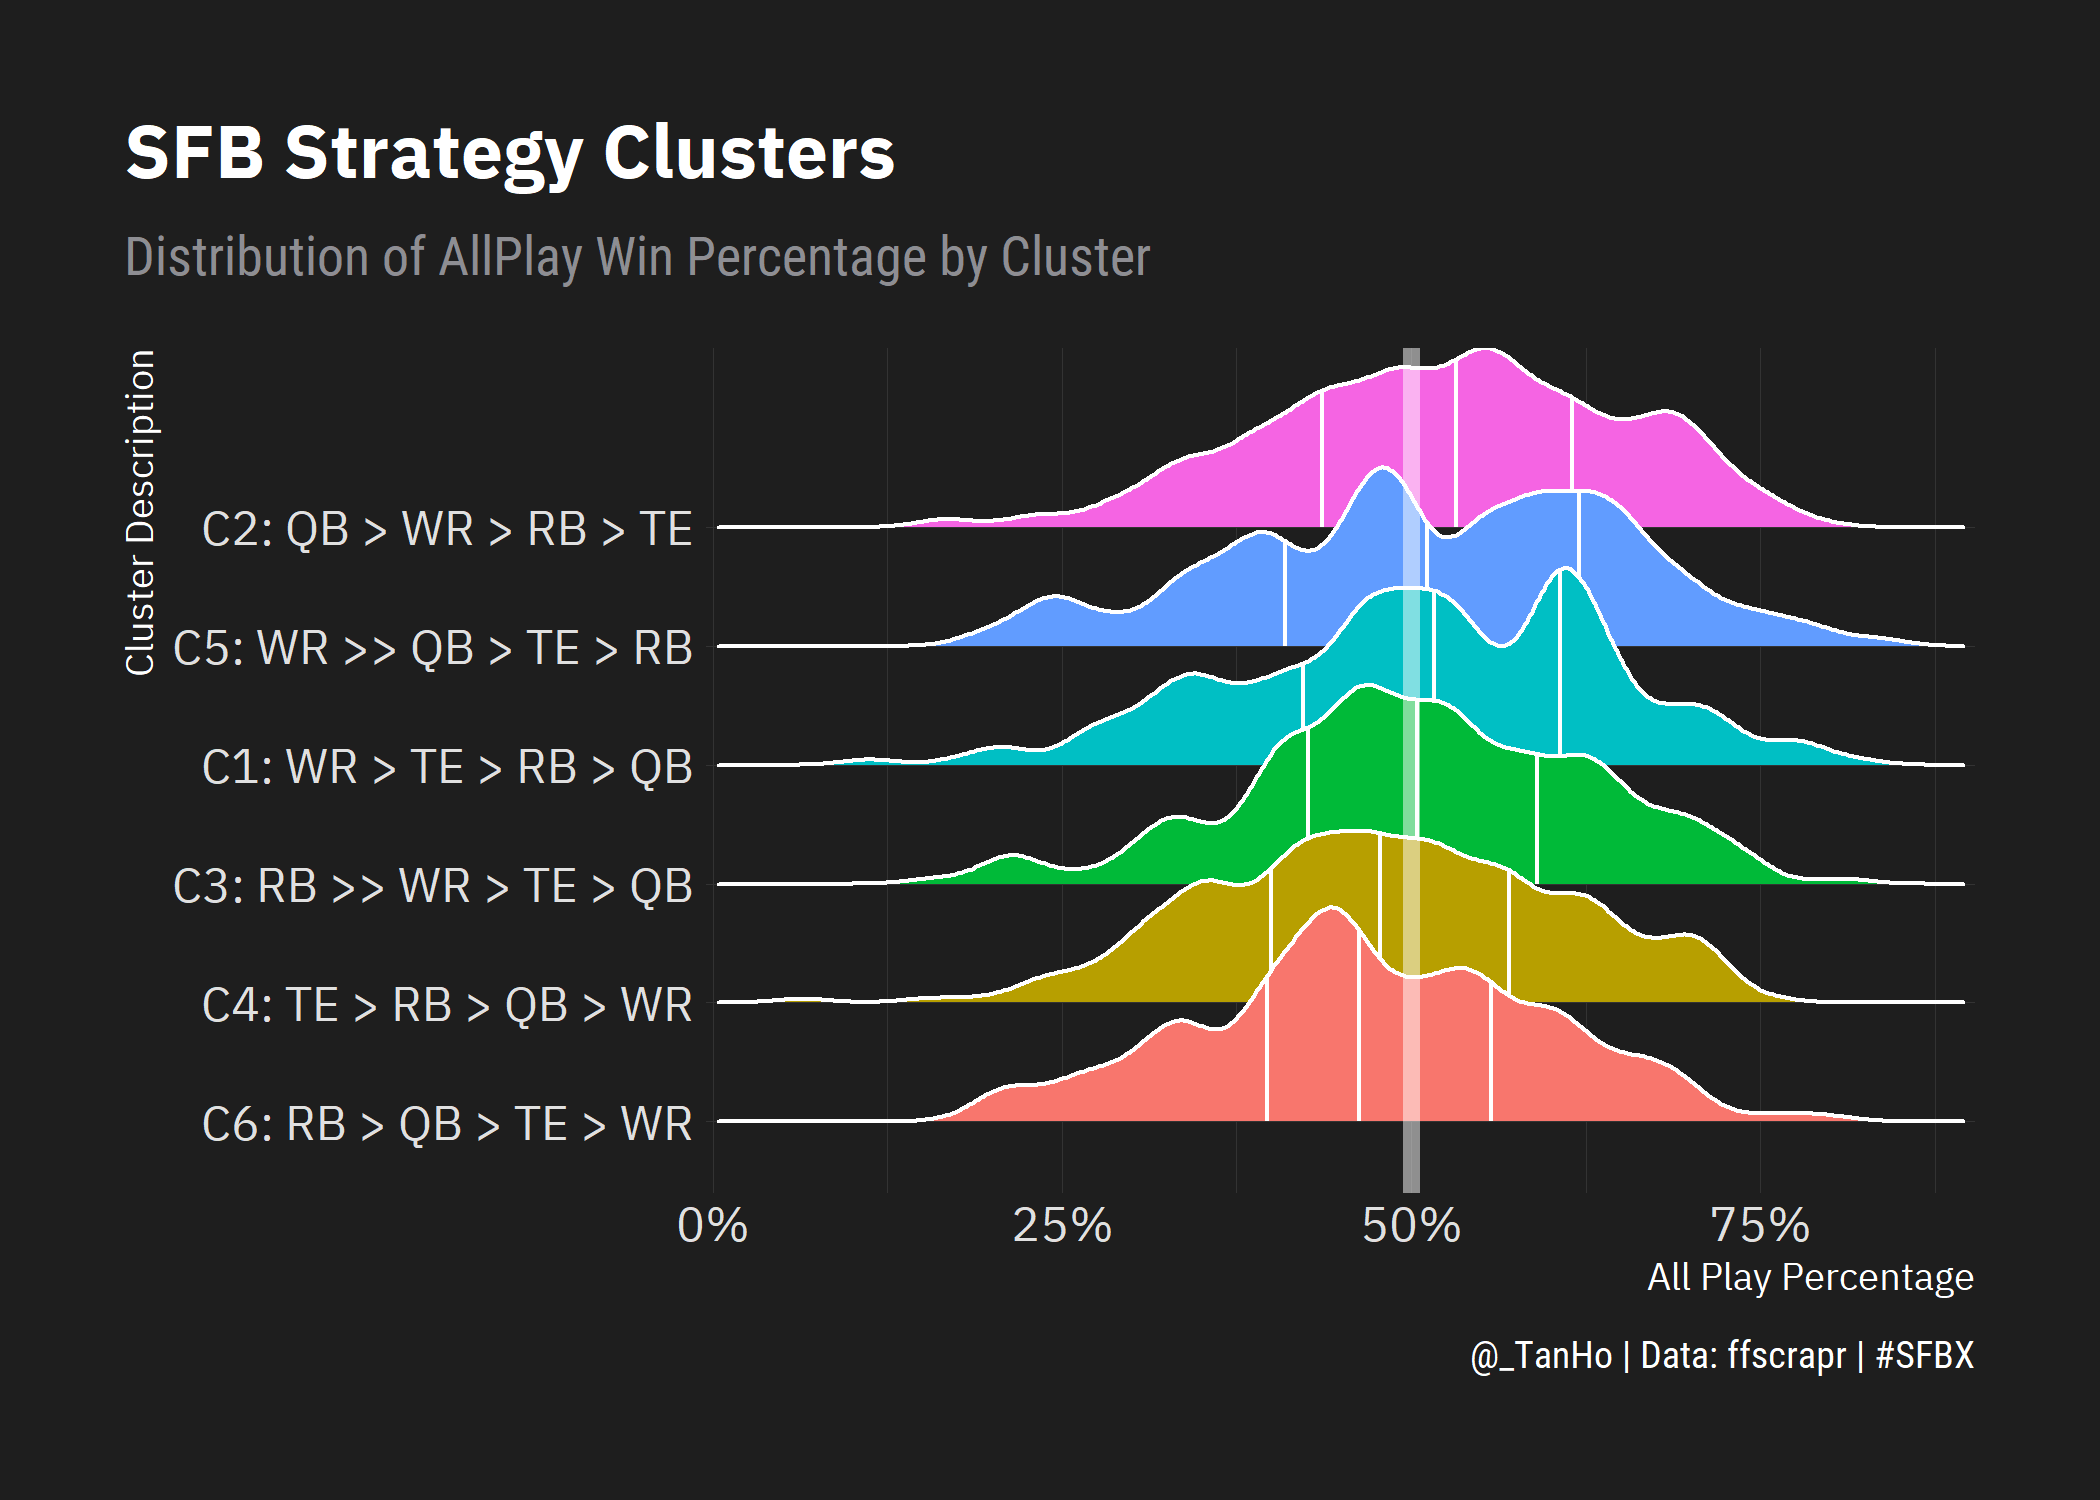
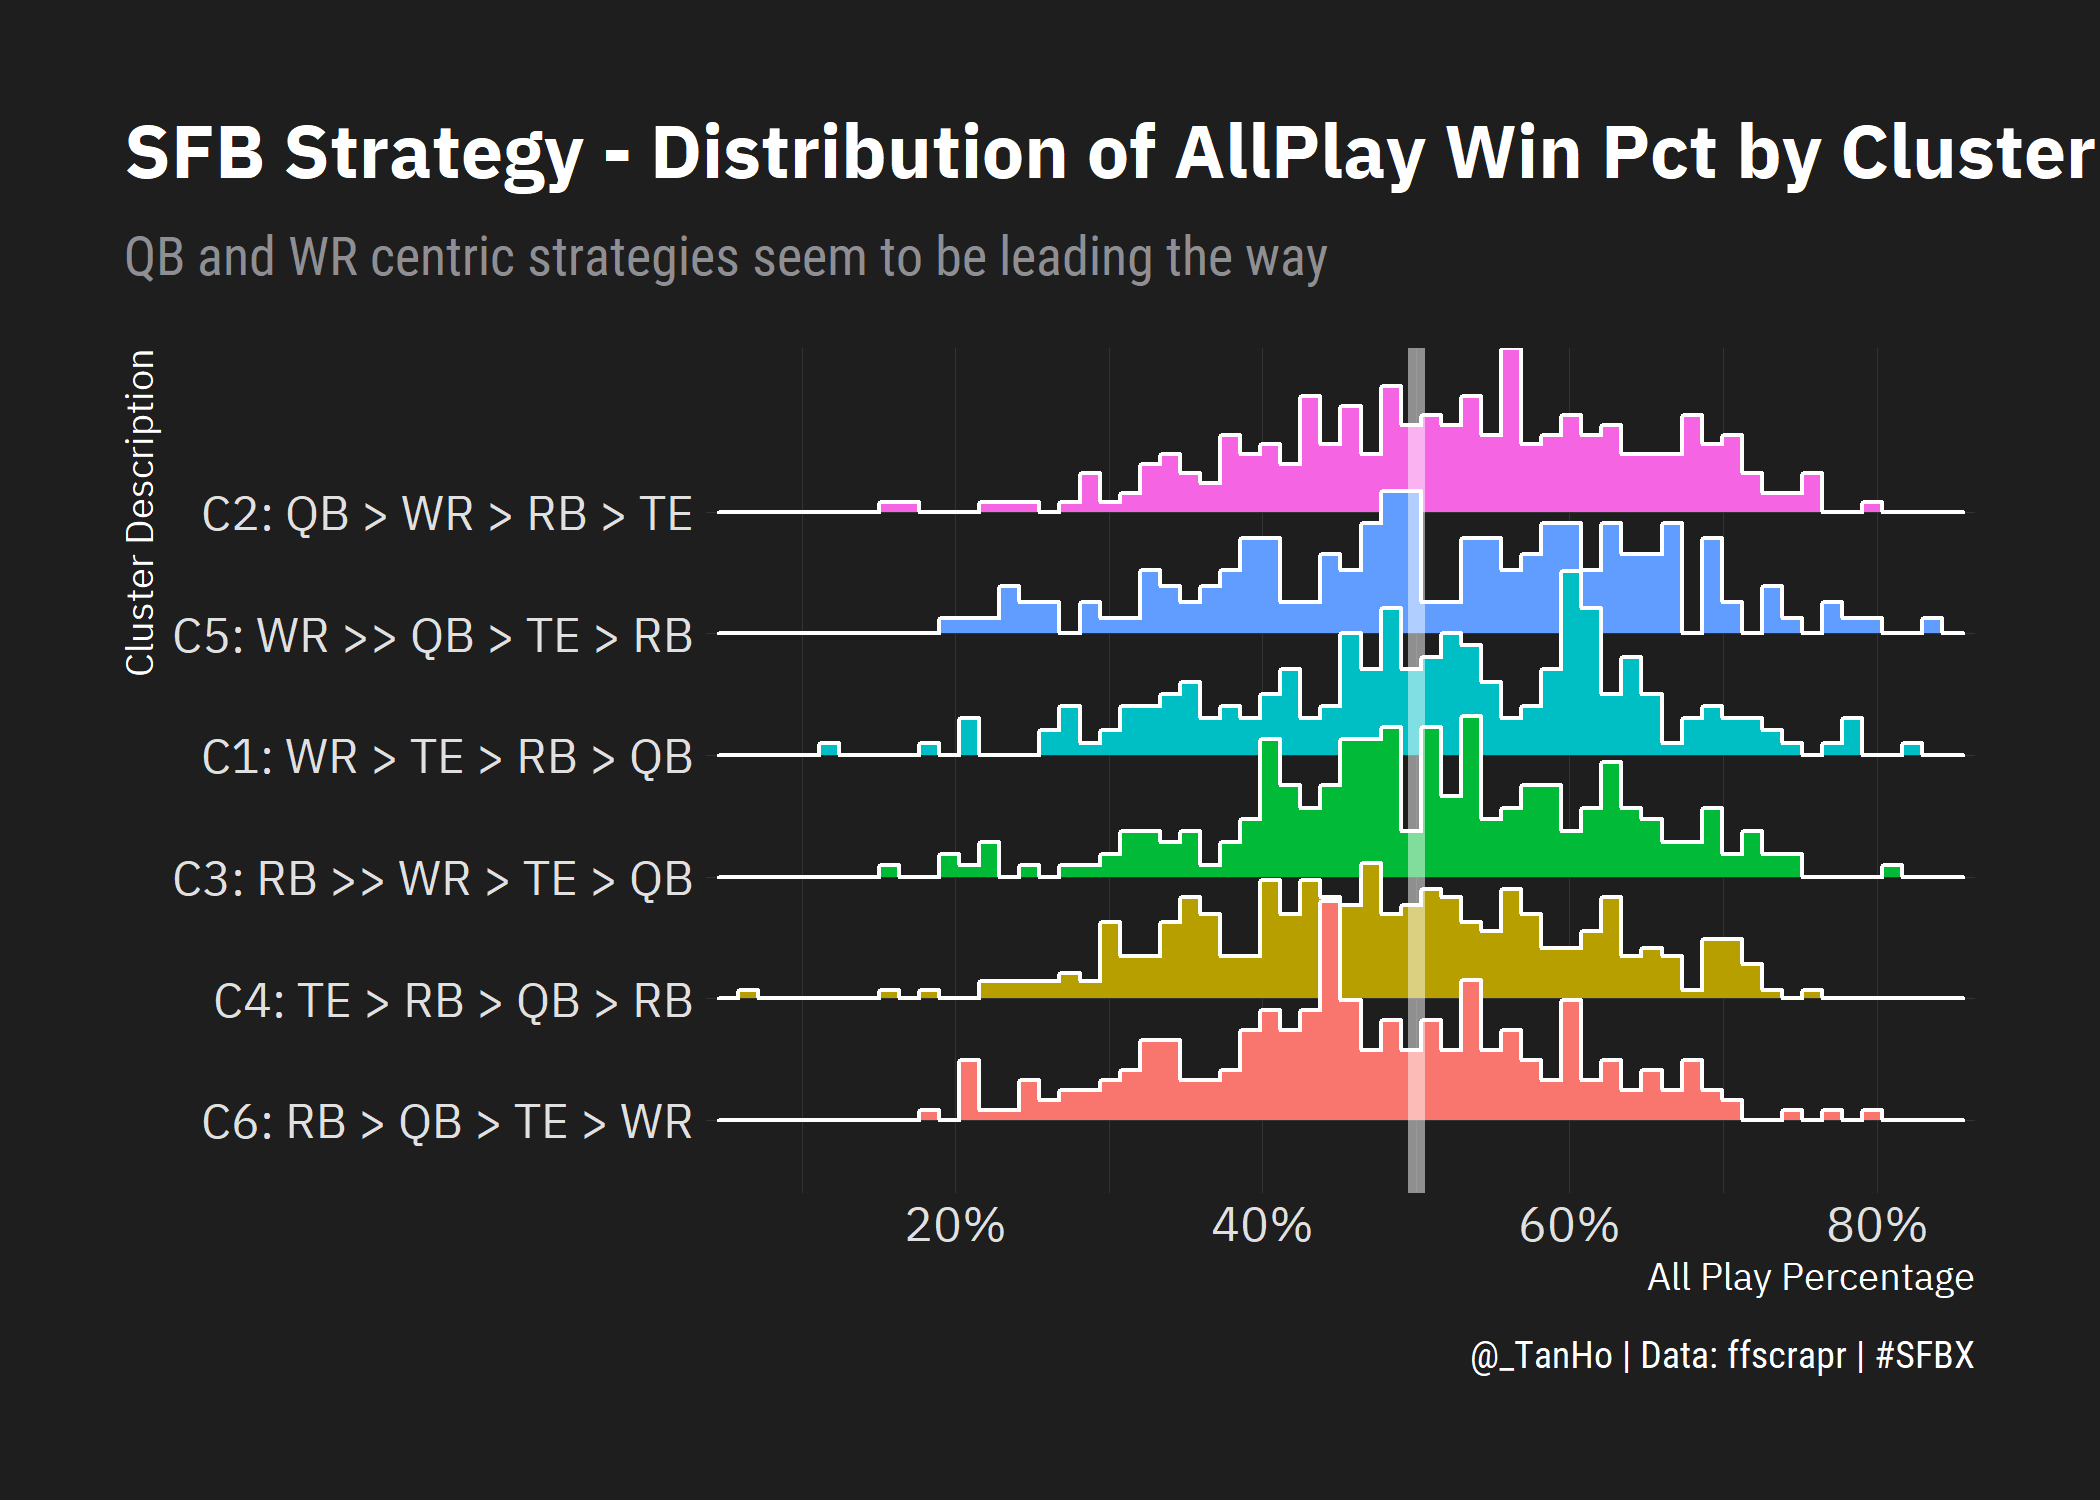
update with seed

diff --git a/R/strategy_pca.md b/R/strategy_pca.md
@@ -251,7 +251,7 @@ pca_dist_median %>%
   ylab("All Play Win Percentage") + 
   labs(
     title = "Does Being Contrarian Pay?",
-    subtitle = glue::glue("...not really? Correlation is tiny (and negative): {round(cor_contrarian,3)}"),
+    subtitle = glue::glue("...unsure, but mostly no? Correlation is tiny (and negative): {round(cor_contrarian,3)}"),
     caption = "@_TanHo | Data: ffscrapr | #SFBX"
   ) +
   theme_modern_rc(base_family = "IBM Plex Sans") +
@@ -390,10 +390,16 @@ results_summary <- results %>%
 
 manual_cluster_descriptions <- tribble(
   ~ cluster, ~ cluster_description,
+  # "4", "C4: QB > WR > TE > RB",
+  # "3", "C3: WR > RB > TE > QB",
+  # "6", "C6: WR > TE > QB > RB",
+  # "1", "C1: TE > RB > WR > QB",
+  # "2", "C2: RB > QB > TE > WR",
+  # "5", "C5: RB > QB > WR > TE"
   "1", "C1: WR > TE > RB > QB",
   "2", "C2: QB > WR > RB > TE",
   "3", "C3: RB >> WR > TE > QB",
-  "4", "C4: TE > RB > QB > WR",
+  "4", "C4: TE > RB > QB > RB",
   "5", "C5: WR >> QB > TE > RB",
   "6", "C6: RB > QB > TE > WR"
 )
@@ -412,10 +418,10 @@ results %>%
   ) %>% 
   ggplot(aes(x = allplay_winpct, y = cluster_description, fill = cluster_description)) + 
   ggridges::geom_density_ridges(
-    # stat = "binline", 
-    quantile_lines = TRUE,
-    # bins = 60,
-    bandwidth = 0.02,
+    stat = "binline",
+    # quantile_lines = TRUE,
+    bins = 60,
+    # bandwidth = 0.01,
     colour = 'white') +
   geom_vline(xintercept = 0.5, size = 2, alpha = 0.5, color = "white") + 
   theme_modern_rc(base_family = "IBM Plex Sans") + 
@@ -427,8 +433,8 @@ results %>%
   xlab("All Play Percentage")+
   ylab("Cluster Description") +
   labs(
-    title = "SFB Strategy Clusters",
-    subtitle = "Distribution of AllPlay Win Percentage by Cluster",
+    title = "SFB Strategy - Distribution of AllPlay Win Pct by Cluster",
+    subtitle = "QB and WR centric strategies seem to be leading the way",
     caption = "@_TanHo | Data: ffscrapr | #SFBX"
   )
 ```
@@ -479,7 +485,7 @@ manual_cluster_descriptions %>%
   ylab("Cluster Description") +
   labs(
     title = "SFBX Strategy Clusters: Finalists",
-    subtitle = "The 'worse' clusters made up a huge proportion of the finalists!",
+    subtitle = "Despite regular season dominance, WR-centric did not survive to the finals...",
     caption = "@_TanHo | Data: ffscrapr | #SFBX"
   )
 ```
